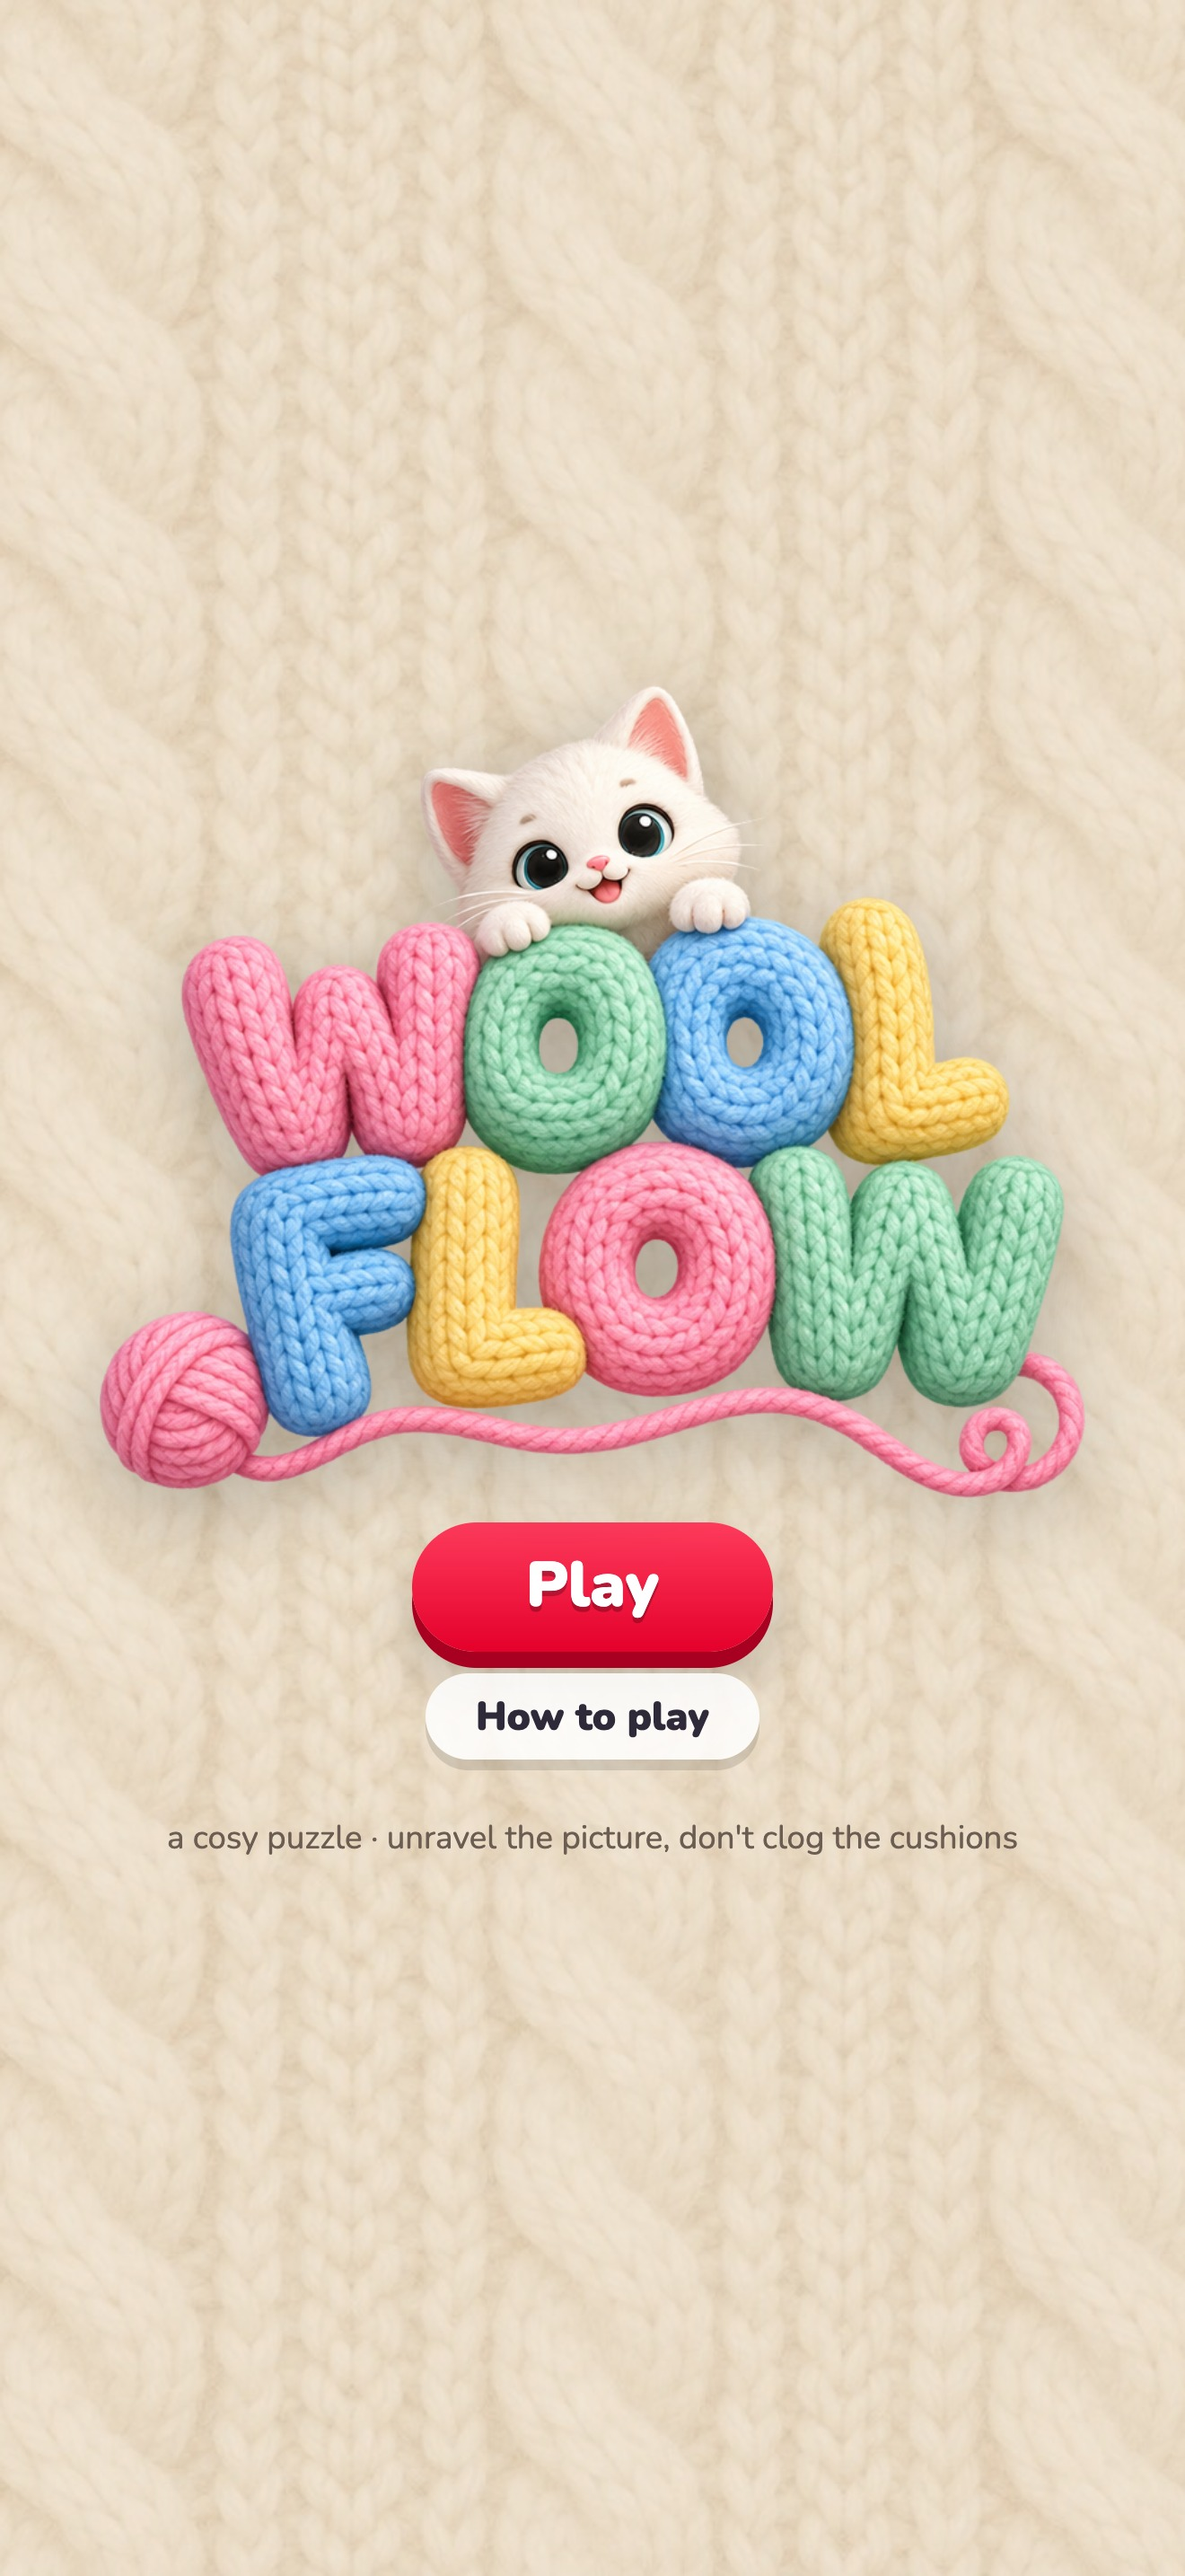
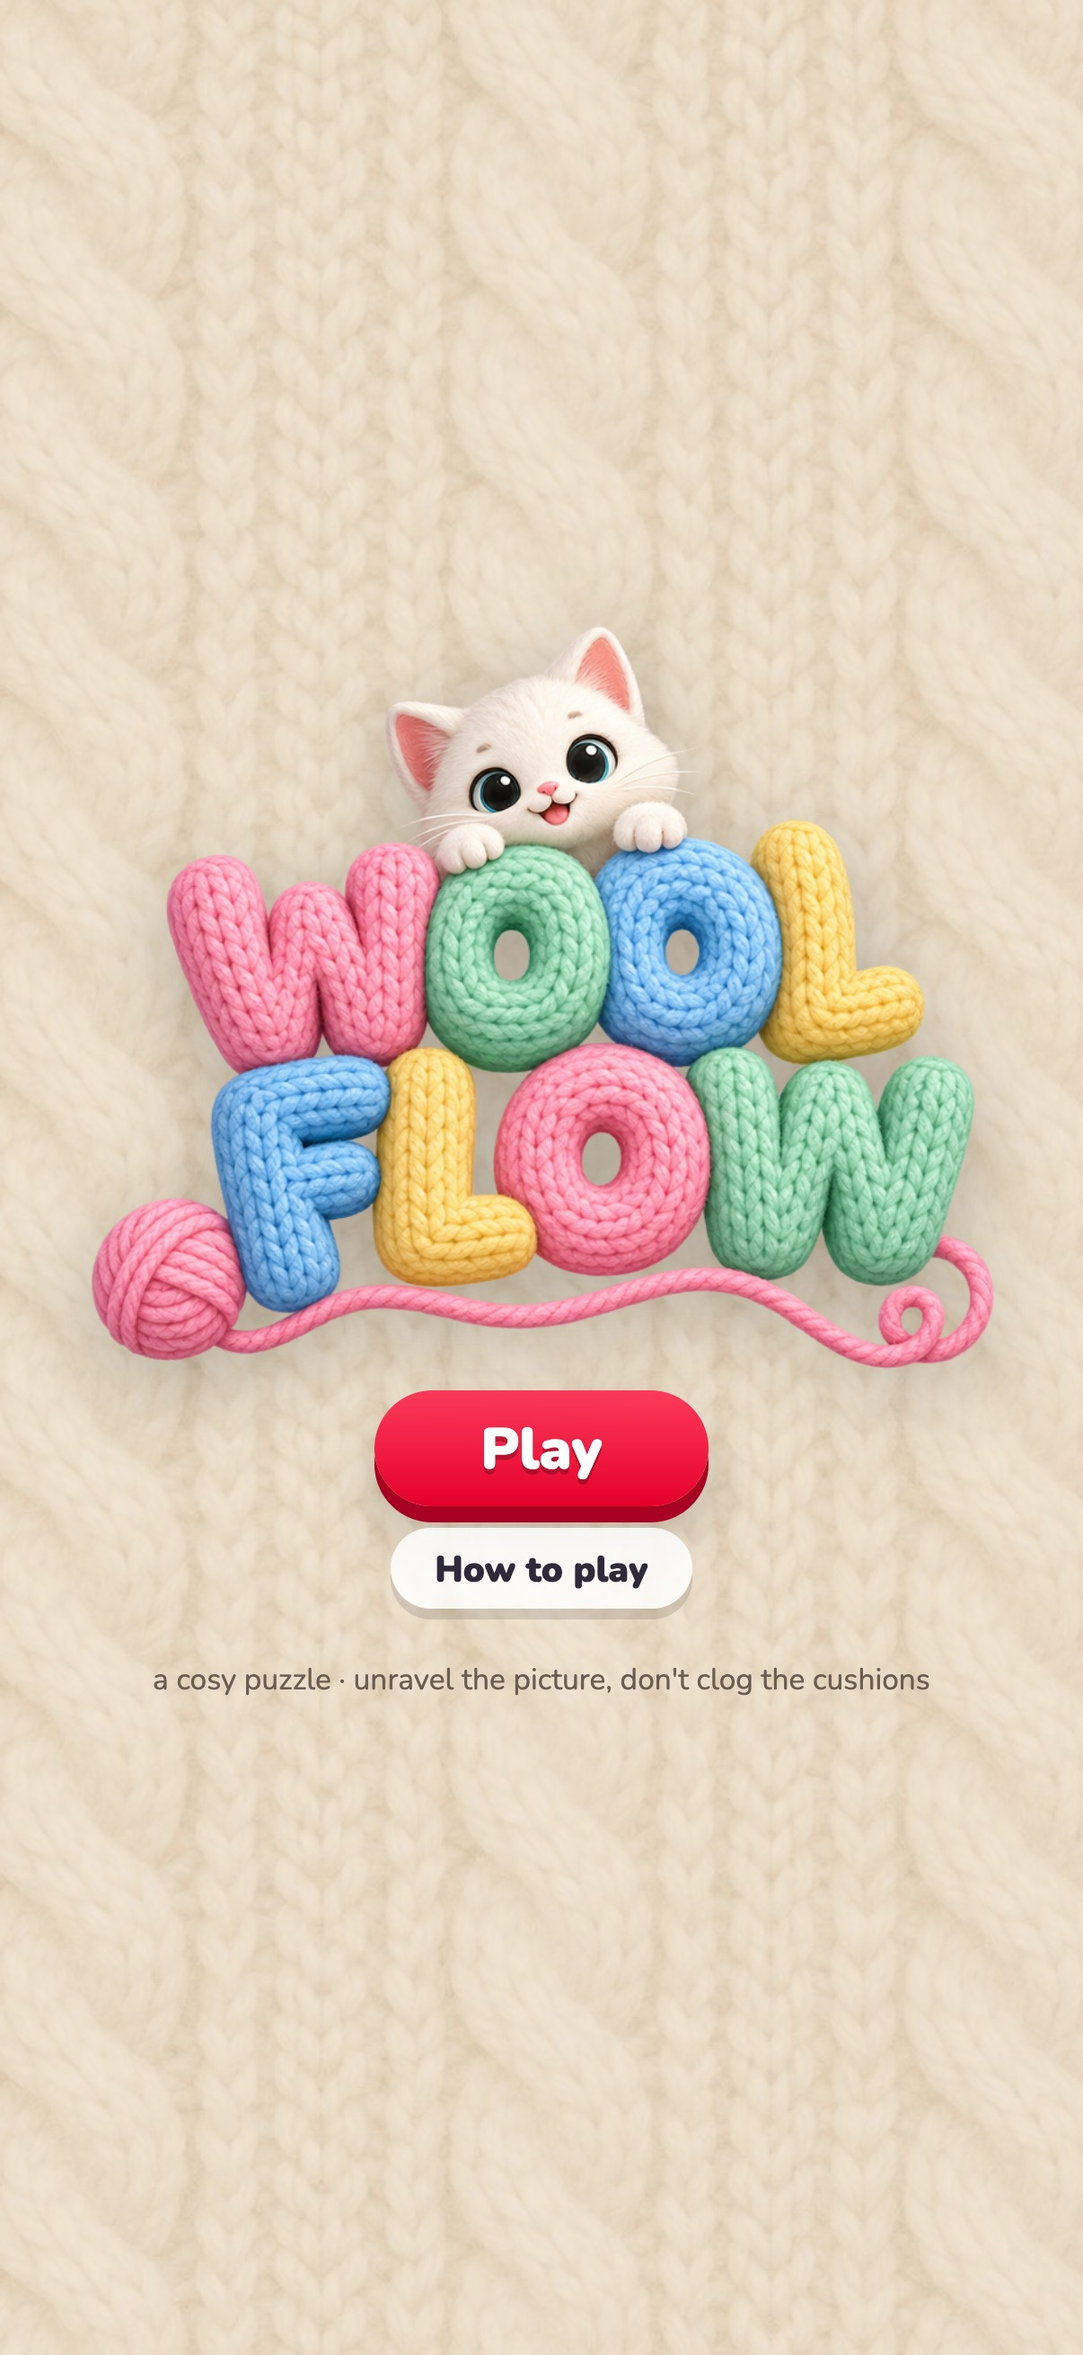
Regenerate store screenshots at 1206x2622 (accepted by App Store Connect)

diff --git a/store/make-screenshots.js b/store/make-screenshots.js
@@ -1,4 +1,4 @@
-// Renders App Store screenshots (iPhone 6.9", 1320x2868) from the built web bundle using local Chrome.
+// Renders App Store screenshots (iPhone 6.3", 1206x2622) from the built web bundle using local Chrome.
 // Usage: npm run build && node store/make-screenshots.js
 const { chromium } = require('playwright-core');
 const http = require('http'), fs = require('fs'), path = require('path');
@@ -13,7 +13,7 @@ const sleep = ms => new Promise(r => setTimeout(r, ms));
   await new Promise(r => server.listen(0, r));
   const url = 'http://localhost:' + server.address().port + '/';
   const browser = await chromium.launch({ channel: 'chrome' });
-  const ctx = await browser.newContext({ viewport: { width: 440, height: 956 }, deviceScaleFactor: 3, isMobile: true, hasTouch: true });
+  const ctx = await browser.newContext({ viewport: { width: 402, height: 874 }, deviceScaleFactor: 3, isMobile: true, hasTouch: true });
   const page = await ctx.newPage();
   const errors = [];
   page.on('pageerror', e => errors.push(String(e)));

diff --git a/store/APP_STORE_LISTING.md b/store/APP_STORE_LISTING.md
@@ -52,6 +52,6 @@ No login or account is needed. The app is fully offline and has no in-app purcha
 Boosters (+Cushion, Hook, Snip) are free, limited per level and are not purchasable.
 
 ## Screenshots
-Generated in store/screenshots (JPEG) at 1320x2868 (iPhone 6.9", the only required size for an iPhone-only app).
+Generated in store/screenshots (JPEG) at 1206x2622 (iPhone 6.3"; App Store Connect scales it for other iPhone sizes).
 Regenerate with: npm run build && node store/make-screenshots.js
 Upload order: 03, 04, 05, 06, 07, 02, 01.
